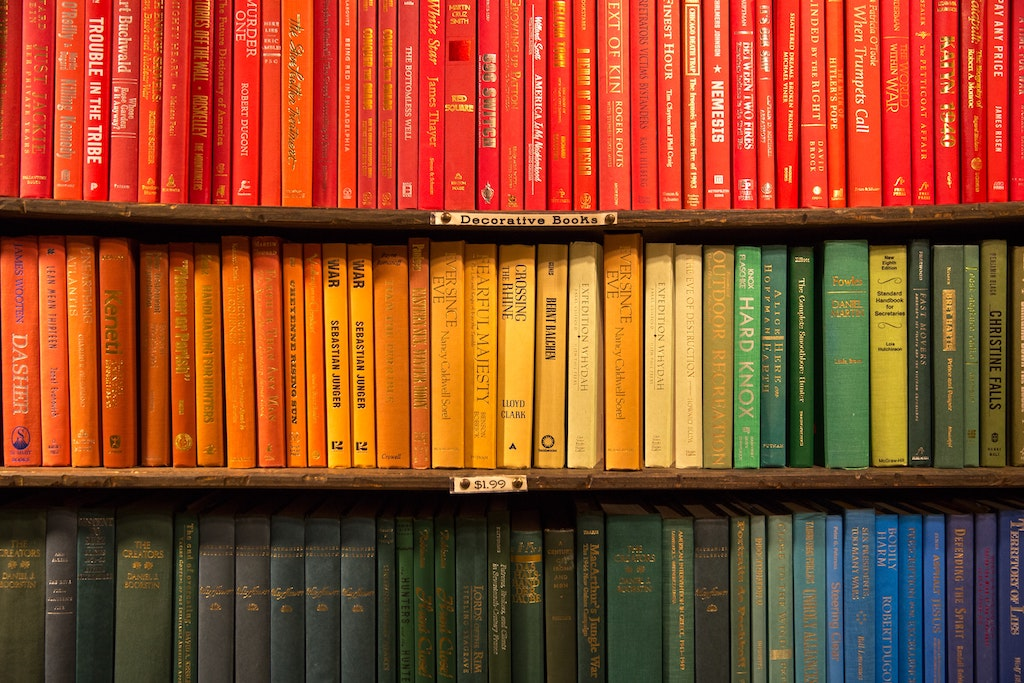
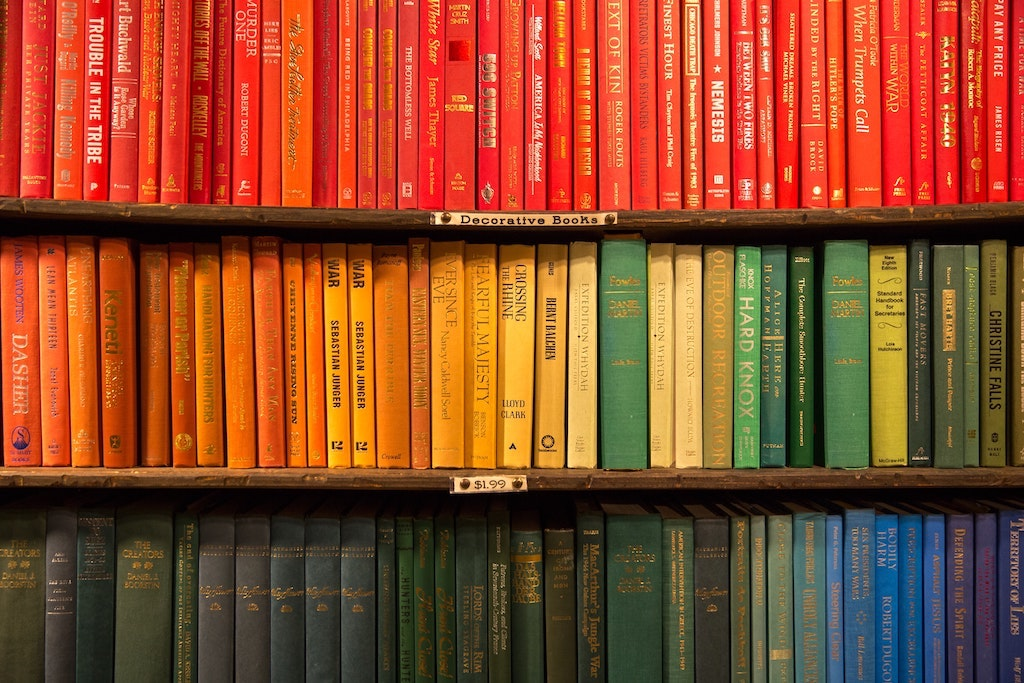
updated book image to make more obvious and added a dashboard reset button

Changed region(s): [[0.5625, 0.3382, 0.6562, 0.7072]]

diff --git a/src/components/Dashboard.js b/src/components/Dashboard.js
@@ -1,0 +1,27 @@
+import React from 'react';
+import '../css/App.css';
+import weirdBookshelf from '../images/bookshelf/bookshelf-weird-book.jpg';
+import emptyBookshelf from '../images/bookshelf/bookshelf.jpg';
+
+class Dashboard extends React.Component {
+  constructor(props) {
+    super(props)
+  }
+
+  reset() {
+    localStorage.setItem('takenToggle', false)
+    localStorage.setItem('openFlag', false)
+    localStorage.setItem('emptyFlag', false)
+    alert('State reset!')
+  }
+
+  render() {
+    return (
+      <div>
+        <a onClick={() => { this.reset()} }> RESET state </a>
+      </div>
+    );
+  }
+}
+
+export default Dashboard;

diff --git a/src/components/App.js b/src/components/App.js
@@ -2,6 +2,7 @@ import React, { Component } from 'react';
 import { BrowserRouter, Switch, Route } from 'react-router-dom';
 import Keypad from './Keypad';
 import Bookshelf from './Bookshelf';
+import Dashboard from './Dashboard';
 
 class App extends Component {
   render() {
@@ -16,6 +17,10 @@ class App extends Component {
               path="**/bookshelf"
               render={(props) => (
               <Bookshelf {...props} /> )}/>
+            <Route
+              path="**/dashboard"
+              render={(props) => (
+              <Dashboard {...props} /> )}/>
           </Switch>
         </BrowserRouter>)
   }
